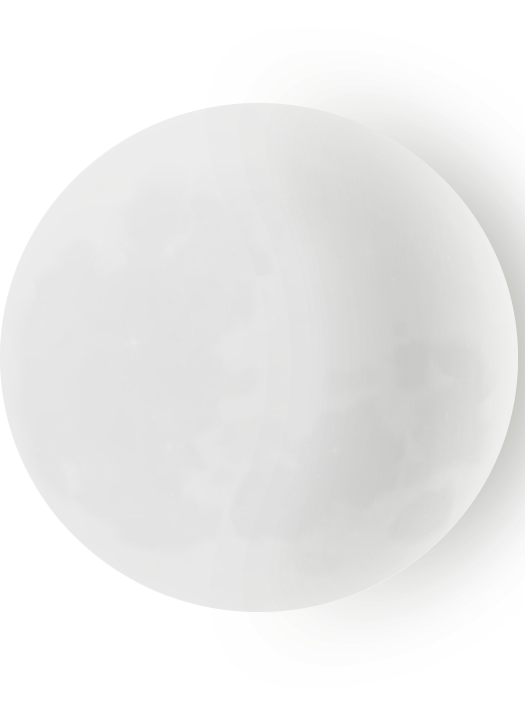
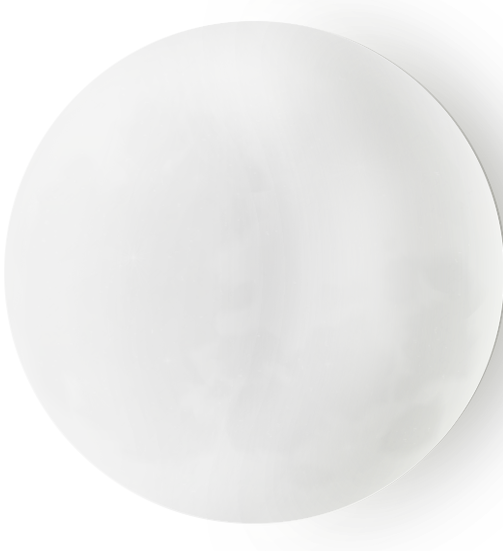
add img

diff --git a/src/screens/HomeScreen/Home.js b/src/screens/HomeScreen/Home.js
@@ -138,7 +138,7 @@ const Home = (props) => {
     //     this.setState({ selected: day.dateString });
     // }
     return (
-        <ImageBackground source={require('../../../assets/images/bg.png')} style={{ width: '100%', height: '100%', }}>
+        <ImageBackground source={require('../../../assets/images/bg1.png')} style={{ width: '100%', height: '100%', }}>
             <StatusBar translucent barStyle="dark-content" backgroundColor='transparent' style={{}} />
             {/* <View style={{
                 width: 340, height: 325, borderRadius: 300, backgroundColor: 'white',
@@ -213,7 +213,7 @@ const Home = (props) => {
                 }}
             />
             {/* <View style={{ width: '100%', }}> */}
-            <ImageBackground source={require('../../../assets/images/moon3.png')}
+            <ImageBackground source={require('../../../assets/images/moon1.png')}
                 style={{ width: 2.5 * size[130], height: 2.5 * size[130], alignSelf: 'center', top: -Width / 1.7, alignItems: 'center', justifyContent: 'center' }} >
                 <Text style={{ color: '#121C3D', fontSize: size[24], fontFamily: fonts.regular }}><Text style={{ color: '#121C3D', fontSize: size[30] }}>7</Text> روز</Text>
                 <Text style={{ color: '#121C3D', fontSize: size[24], fontFamily: fonts.regular }}> تا پریود بعدی</Text>

diff --git a/src/hooks/RESTAPI.js b/src/hooks/RESTAPI.js
@@ -1,6 +1,5 @@
 
-import AsyncStorage from '@react-native-community/async-storage';
-import { getData, storeData } from '../app/Functions'
+import { getData, storeData } from '../app/Functions';
 export class RESTAPI {
     constructor() {
         this.Date;
@@ -12,16 +11,13 @@ export class RESTAPI {
             Token: null,
         }
     }
-    getData = () => {
-        console.log("getData")
-        getData("@token")
-    }
+
     StoreToken = async (token) => {
         console.log("storedata")
         await storeData("@token", token)
     }
     async request(_url, _body = null, _method = 'POST', Isencrypt = null) {
-        token = getData()
+        token = await getData("@token")
         console.log("token: ", token)
         _method = _method.toUpperCase();
         var body1, header;
@@ -55,7 +51,6 @@ export class RESTAPI {
                 return response.json()
             })
             .then((responseJson) => {
-                // console.log("res2  ", responseJson)
                 this.state._data = responseJson
                 // if (Isencrypt === 'LoginPage') {
                 //     const DecryptedResponse = aes.DecryptBody(responseJson);

diff --git a/src/app/Navigator.js b/src/app/Navigator.js
@@ -12,12 +12,13 @@ import Charts from '../screens/ChartsScreen/Charts';
 
 const PagesNavigator = createStackNavigator(
     {
-        Calendar: {
-            screen: Calendar,
-            navigationOptions: { headerShown: false },
-        },
         Home: {
             screen: Home,
+            navigationOptions: { headerShown: false },
+        },
+
+        Calendar: {
+            screen: Calendar,
             navigationOptions: { headerShown: false },
         },
 
